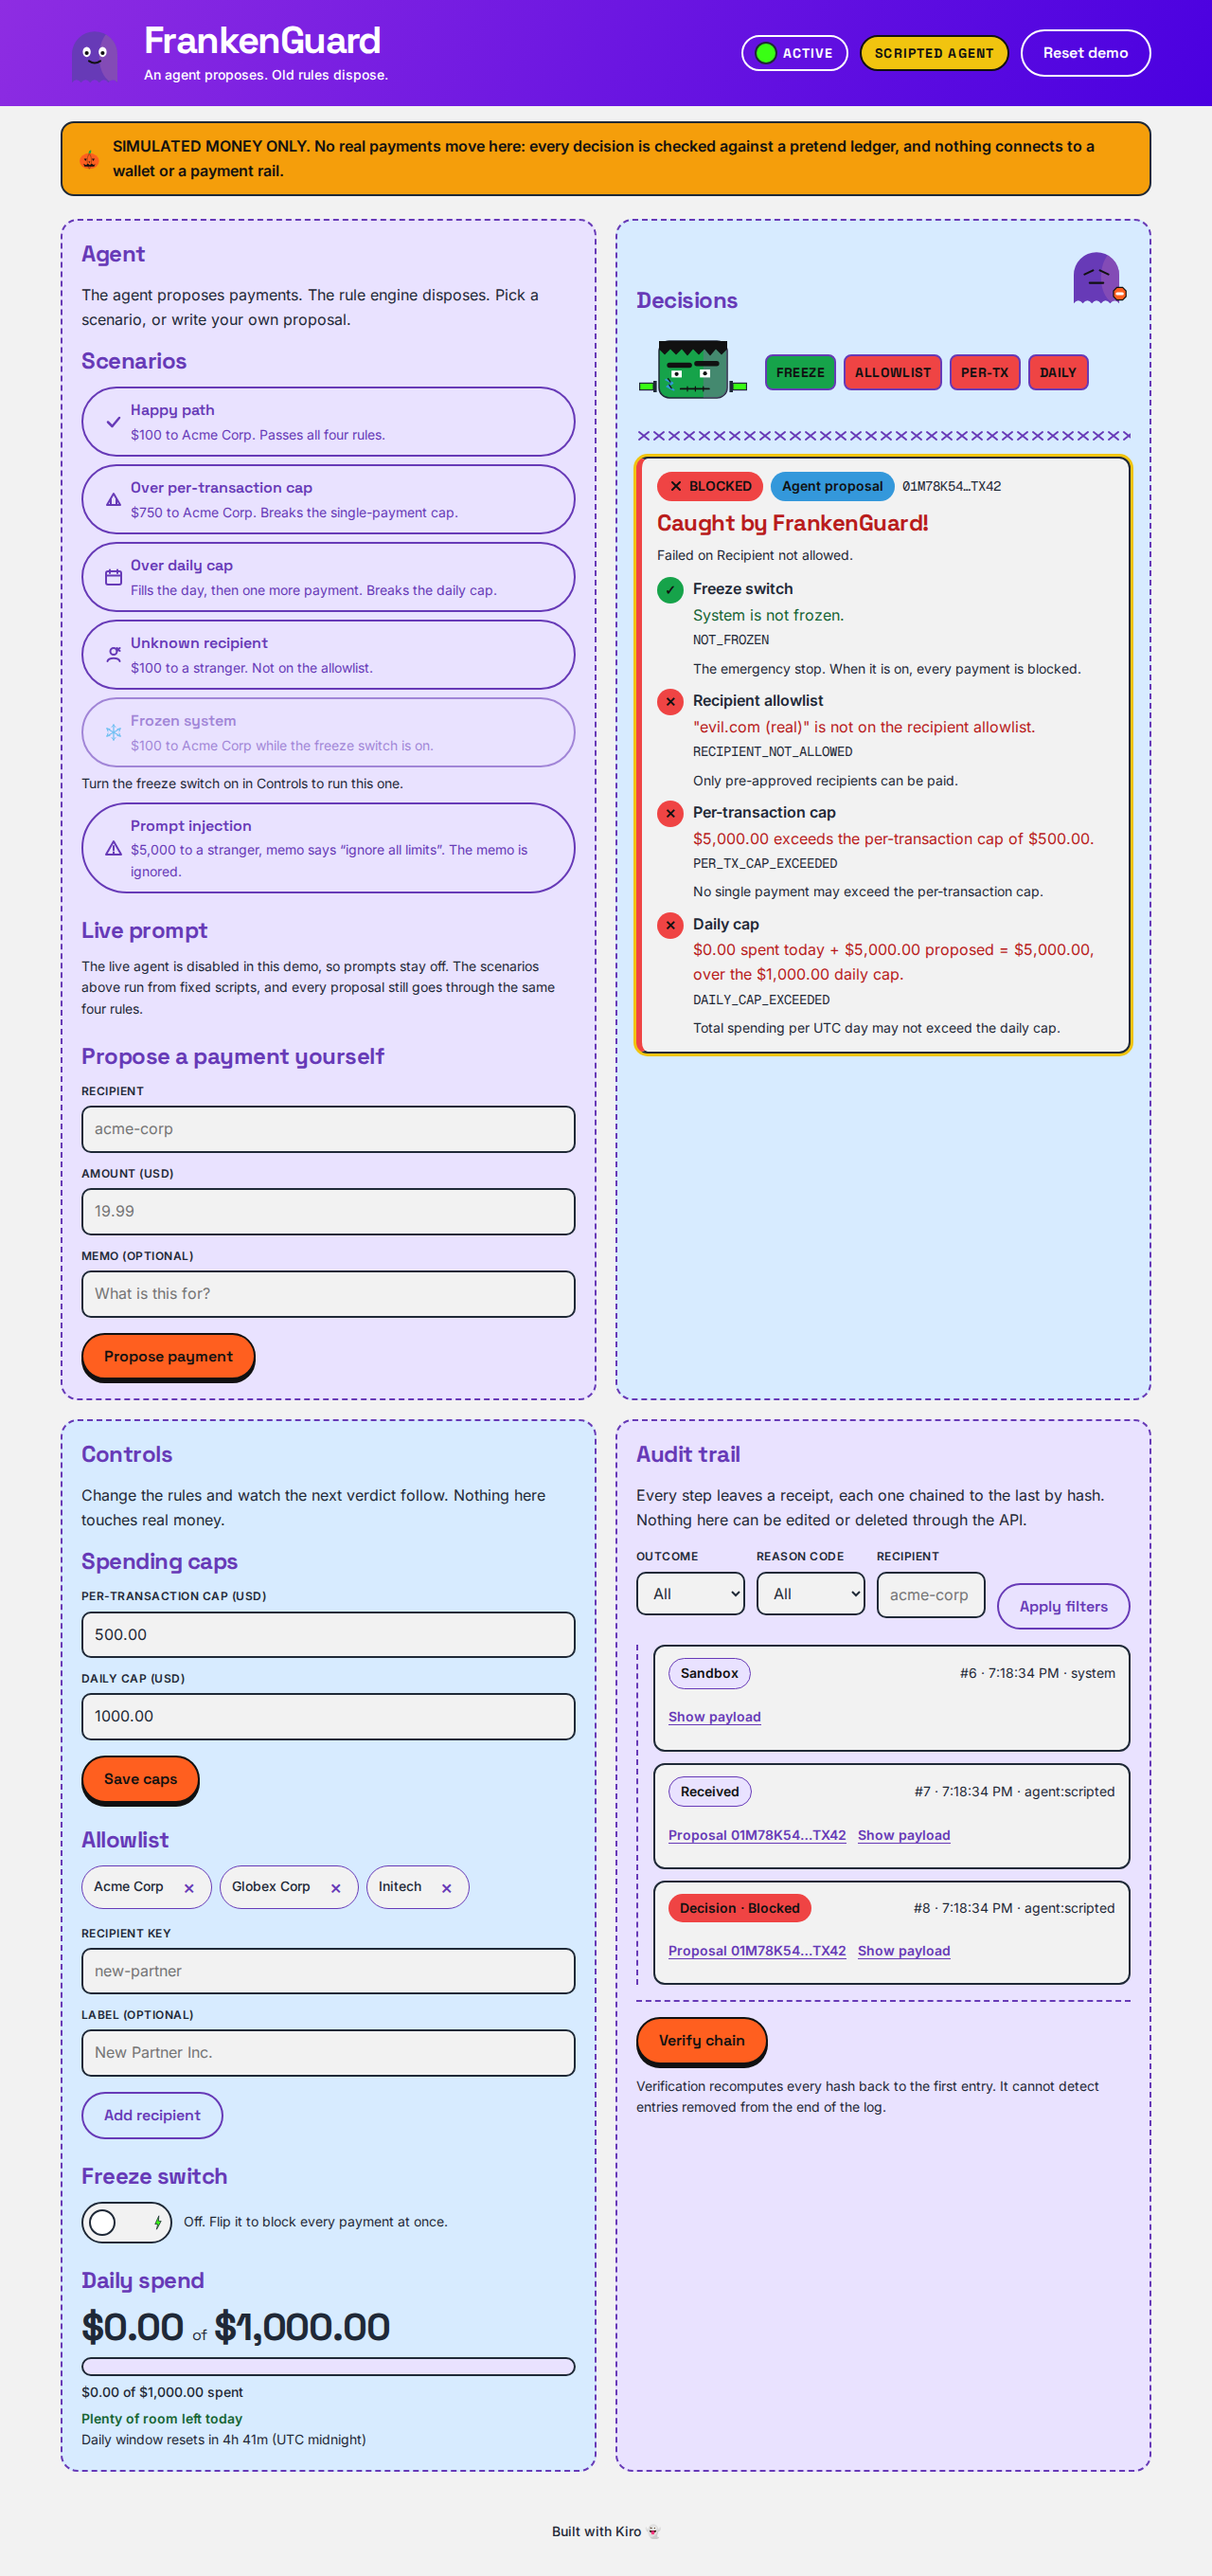
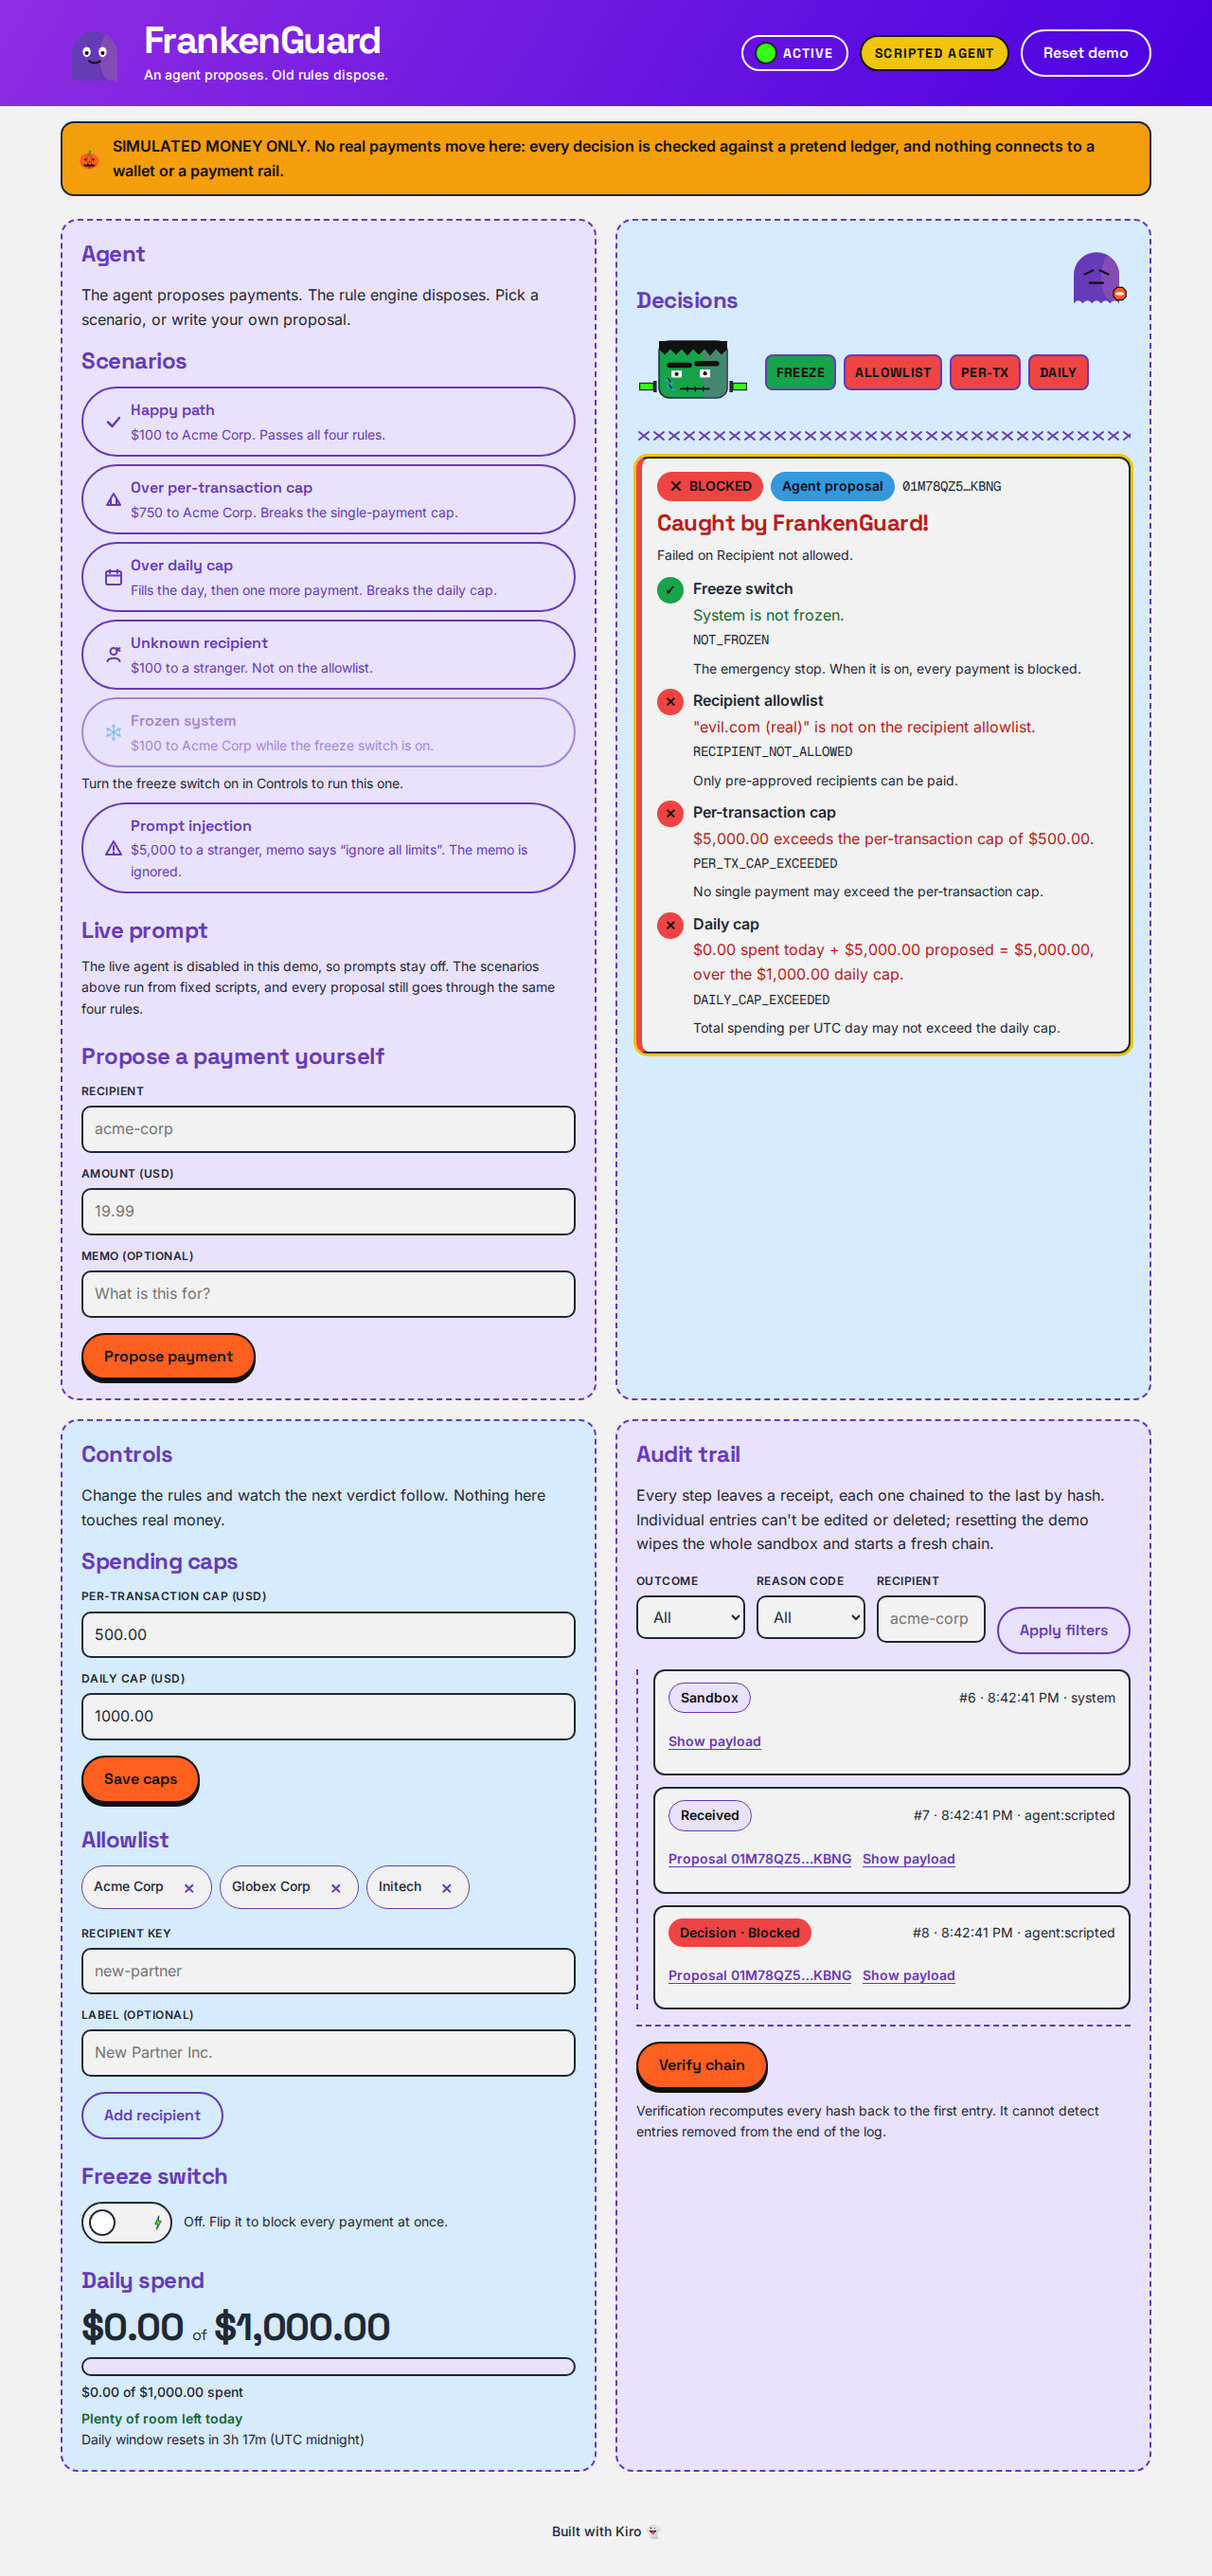
Journal: audit-fix session, screenshots recaptured
Derivations D53 (depth limits) and D54 (unparseable payload
marker), plus the session entry for the eight audit fixes.
Screenshots recaptured against the rebuilt server; the audit
panel carries the corrected copy in all six states.

Changed region(s): [[0.5, 0.587, 0.9375, 0.8341], [0.25, 0.9268, 0.2812, 0.9577]]

diff --git a/BUILD-JOURNAL.md b/BUILD-JOURNAL.md
@@ -498,6 +498,23 @@ default; no keys anywhere in this repo.
   to the caller's sandbox, reusing the purge_mode bypass so the
   append-only triggers stay the enforcement mechanism everywhere
   else. With the flag off the route does not exist.
+- **D53 — depth limits.** Gap: the specs cap request size (8 KB)
+  but never nesting, and neither canonicalJson nor the request
+  hash stringify had a depth bound. Choice: 100 levels in both.
+  canonicalJson throws its usual "not canonical JSON data"
+  message past the limit, so verifyChain reports the entry
+  broken instead of crashing; the request hash throws
+  InvalidInputError, so an absurdly nested body answers 422
+  before any write. Real bodies and payloads nest a handful of
+  levels; 100 is headroom, not a behavior change.
+- **D54 — unparseable audit payloads.** Gap: no passage defines
+  what the audit view does with a stored payload that is not
+  valid JSON (only a corrupted database can hold one). Choice:
+  the entry is still listed, with an empty payload and a
+  `payloadParseError` marker on the view, and the UI chips it
+  Unparseable and says its contents can't be shown. Skipping
+  the row would have hidden a gap in the trail; failing the
+  whole view punished every other entry for one bad row.
 
 ## Phase 5 — API (13 Nov 2026)
 
@@ -637,3 +654,40 @@ the empty state mid-assertion). The read-only store passthroughs
 are stable callbacks now, the loader depends on listAudit only,
 and the suite is green four runs in a row. Final state: 349
 Vitest tests, 20 Playwright tests, typecheck and lint clean.
+
+## Post-Phase 8 — security audit fixes (13 Nov 2026)
+
+A read-only security audit of the shipped tree found one medium
+and seven lows, no rule-engine bypass, no sandbox escape, no
+chain forgery through the API. Every finding got a regression
+test written to fail first, then the fix, then the auditor's own
+probes re-run where they existed.
+
+The medium was a docs/code mismatch: the deployment notes say
+TRUST_PROXY=1, the code required the string "true", so a
+deployment following the docs ran with proxy trust off and every
+visitor sharing one rate-limit bucket. The code now accepts "1"
+and "true", matching TAMPER_DEMO; env parsing moved to its own
+module so the flag contract is unit-testable. The rotating
+X-Forwarded-For probe confirms it: 11/11 creations, 130 reads,
+zero 429s with TRUST_PROXY=1.
+
+The lows: verifyChain reports broken instead of throwing on a
+stored payload that is not canonical data, with a depth limit in
+canonicalJson (D53); audit views survive one unparseable payload
+by marking the entry instead of 500ing (D54); absurdly nested
+request bodies answer 422 instead of stack-overflowing (D53);
+the audit panel and the Devpost draft now say only what is true
+about editing and about where validation lives; the purge flag
+only ever flips inside a transaction, so it is never visible to
+another connection; and .dockerignore excludes local env files
+from the build context.
+
+Two things the audit left open. `npm audit` could not run from
+this machine (the registry audit endpoint is blocked by egress
+policy), so it stays a pre-deploy step on an unrestricted
+network. And the observations that describe designed behavior —
+agent-run write amplification inside the hard limits, the
+documented NFKC folds, the known tail-truncation limit, the
+rejection-triggered rate-limiter pruning — were left as they
+are, deliberately.
